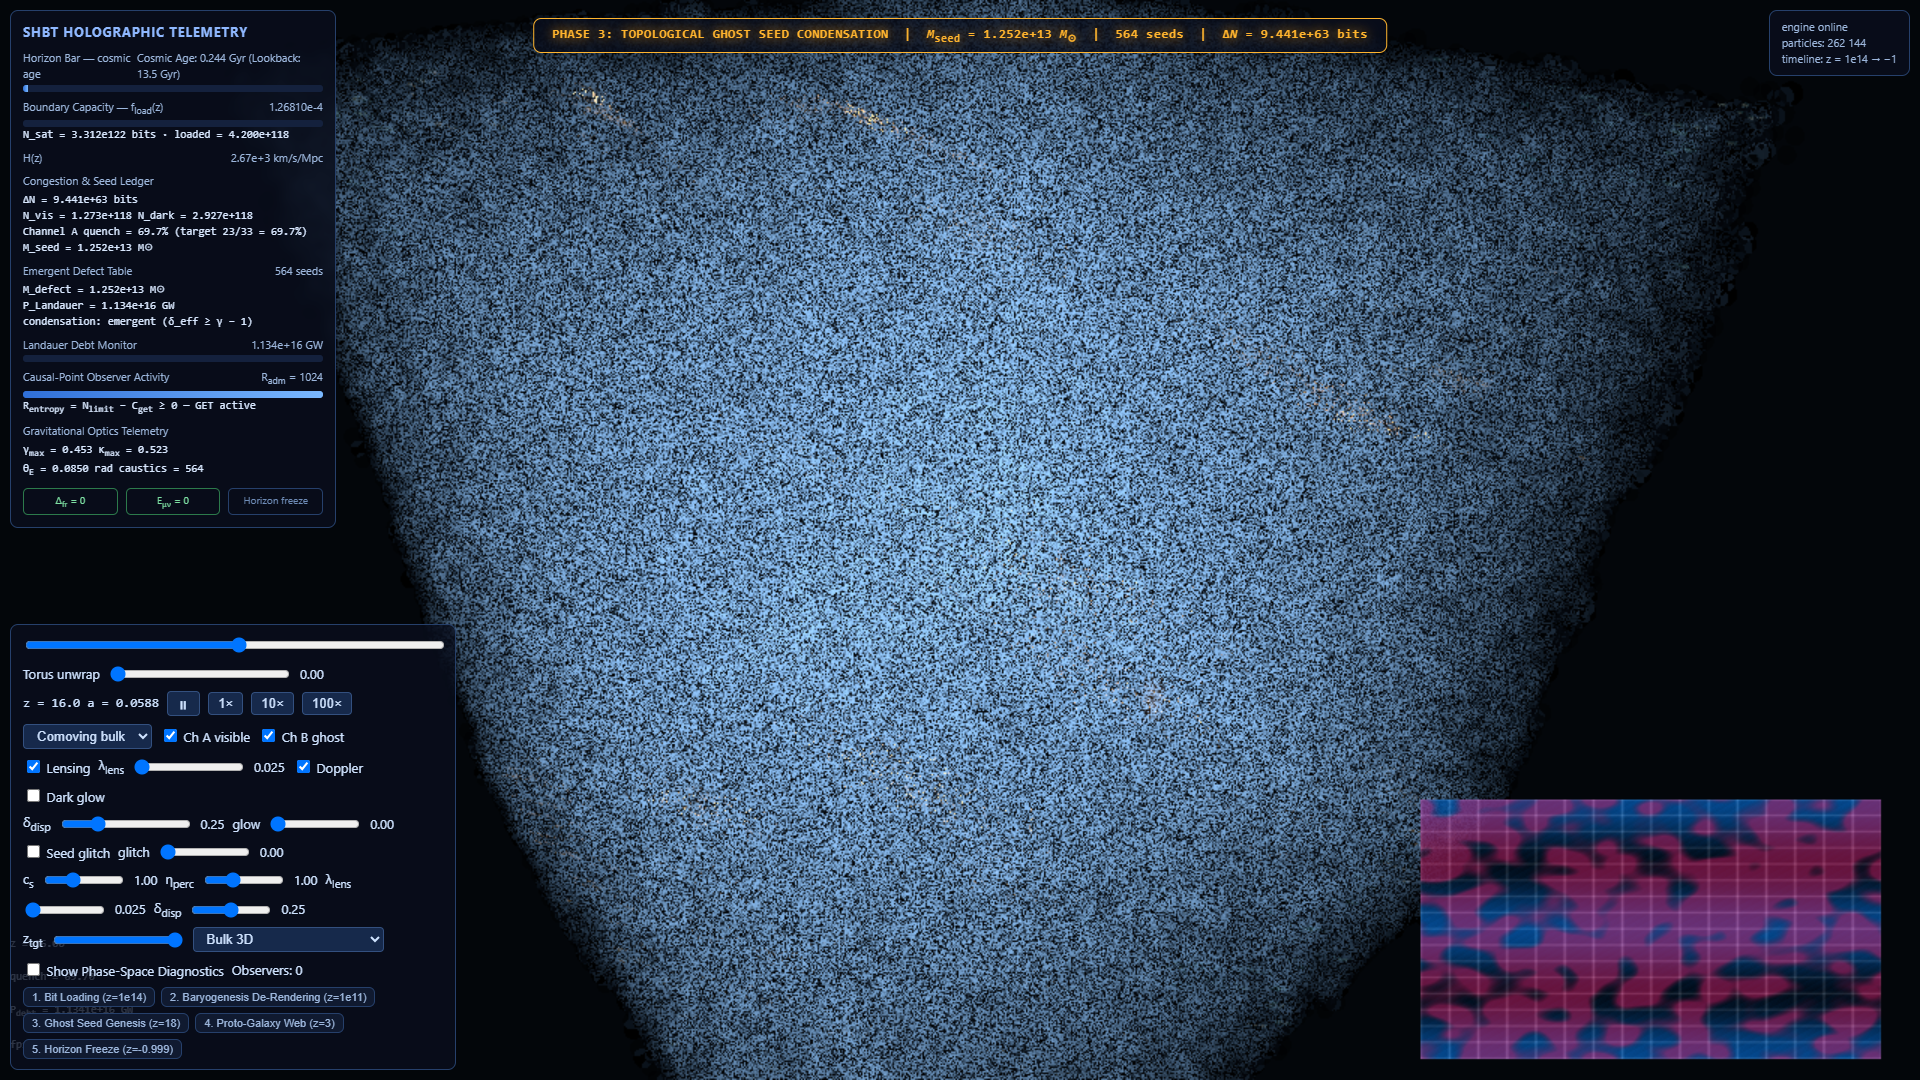
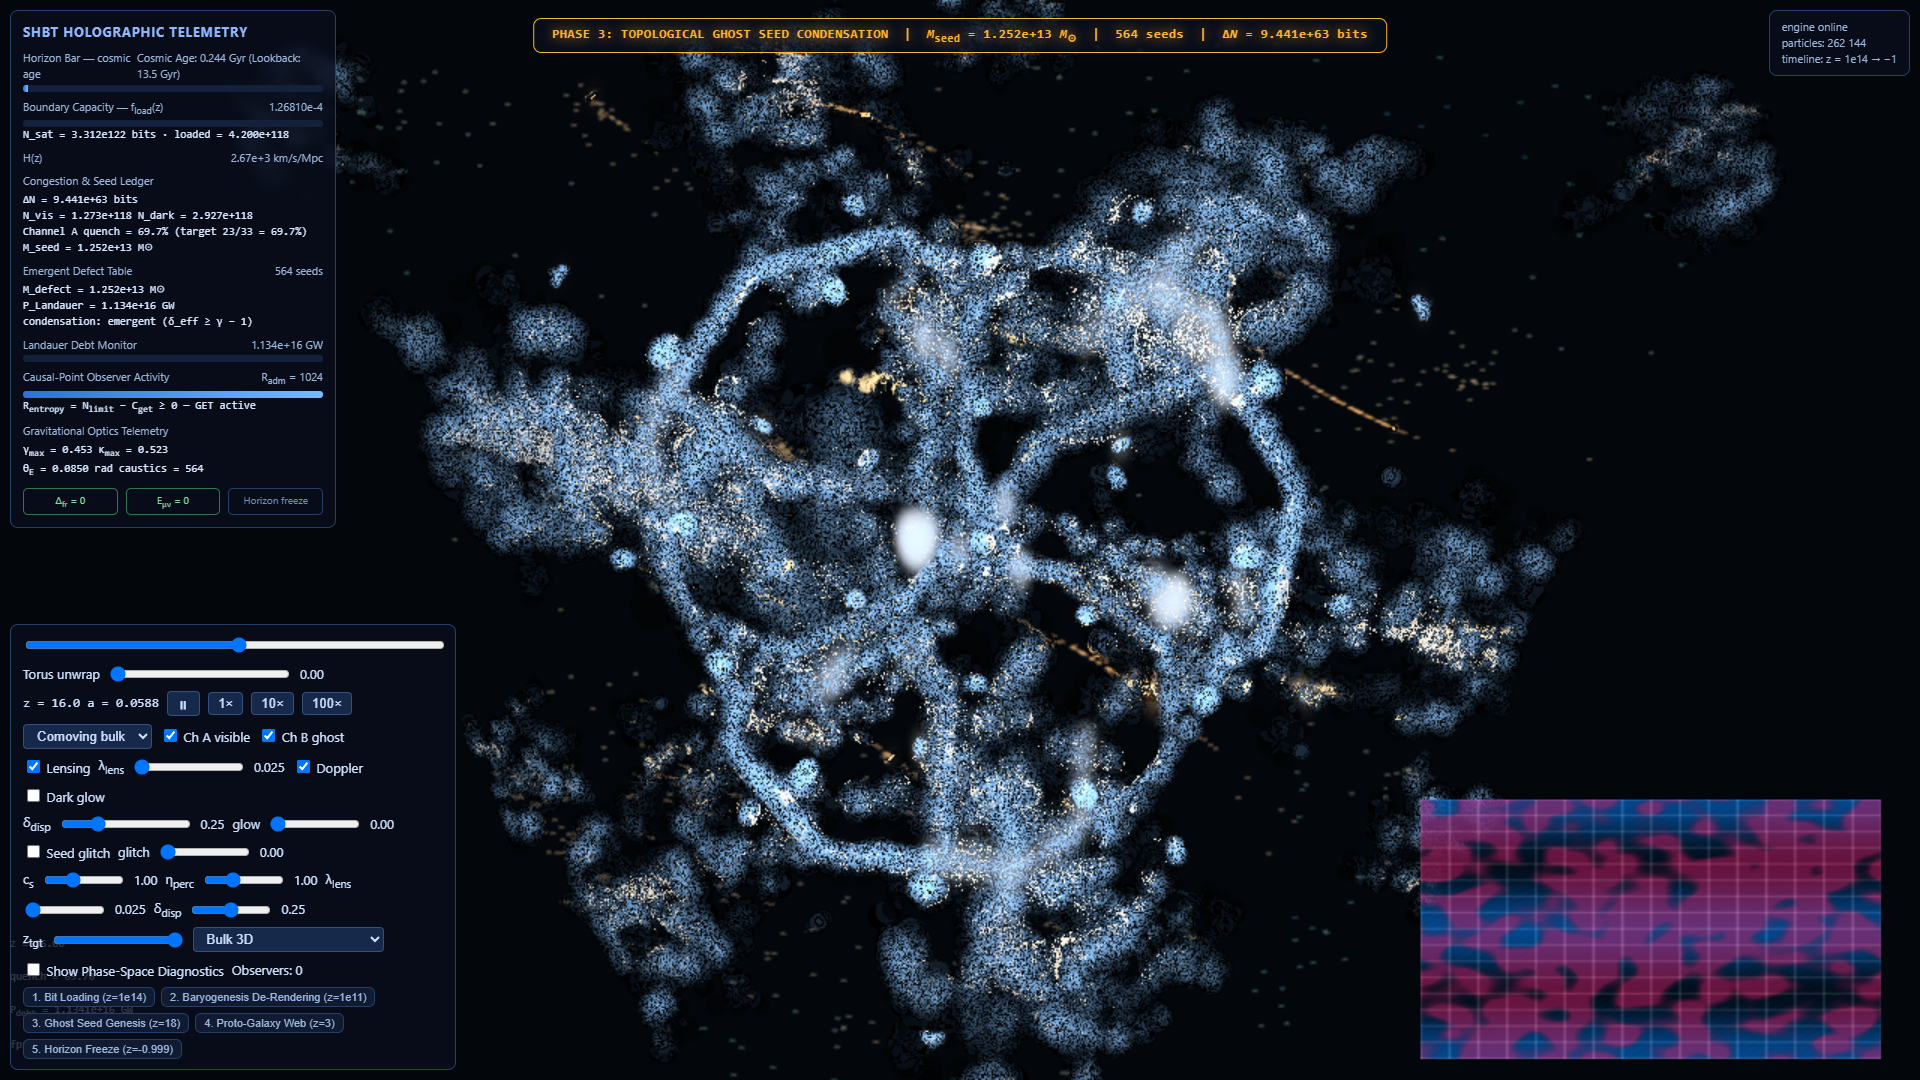
fix(recorder): synchronize redshift trajectory into offline stepping and re-record full cosmic evolution video

diff --git a/visualizer/index.js b/visualizer/index.js
@@ -341,34 +341,24 @@ async function boot() {
   };
 
   // Spec Step 1.2: Expose explicit deterministic synchronous frame advance on window
-  window.advanceSimulationFrame = async function (arg1, arg2, arg3, arg4) {
+  window.advanceSimulationFrame = async function (arg1, arg2, arg3, arg4, arg5) {
     let pos = null;
     let look = null;
+    let z = undefined;
     let frameIndex = 0;
     if (Array.isArray(arg1) && Array.isArray(arg2)) {
       pos = arg1;
       look = arg2;
+      z = arg3;
     } else if (typeof arg1 === "number") {
       frameIndex = arg1;
       if (Array.isArray(arg3) && Array.isArray(arg4)) {
         pos = arg3;
         look = arg4;
+        z = arg5;
       }
     }
-    if (pos && look) {
-      engine.update_cosmic_state(engine.get_current_redshift(), pos[0], pos[1], pos[2], look[0], look[1], look[2]);
-    }
-    // 1. Dispatch compute passes (Poisson, GET, Hydro, KDK)
-    engine.step_deterministic();
-    // 2. Render to canvas target
-    engine.render_frame();
-    // 3. Synchronously await GPU completion
-    const device = window.__gpuDevice || (engine ? engine.device : null);
-    if (device && device.queue && device.queue.onSubmittedWorkDone) {
-      await device.queue.onSubmittedWorkDone();
-    }
-    const m = JSON.parse(engine.hud_json());
-    refreshHud(m);
+    await window.__SHBT_ENGINE__.stepOffline(1.0 / 60.0, z, pos, look);
     return {
       frame: frameIndex,
       z: engine.get_current_redshift(),

diff --git a/visualizer/record_simulation_events.py b/visualizer/record_simulation_events.py
@@ -591,8 +591,8 @@ async def record_video_session(p) -> Path | None:
 
             # Deterministic simulation advance synchronized with WebGPU onSubmittedWorkDone
             await page.evaluate(
-                "([pos, look]) => window.advanceSimulationFrame(pos, look)",
-                [cam_pos, cam_look],
+                "([pos, look, z]) => window.advanceSimulationFrame(pos, look, z)",
+                [cam_pos, cam_look, z_now],
             )
 
             # Synchronous CDP screenshot extraction
